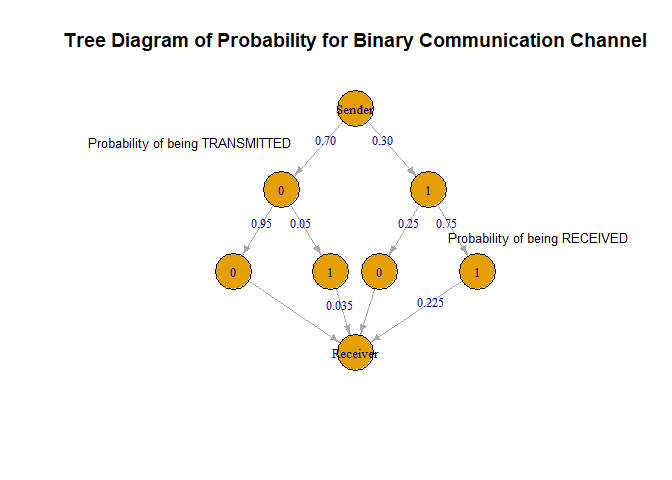
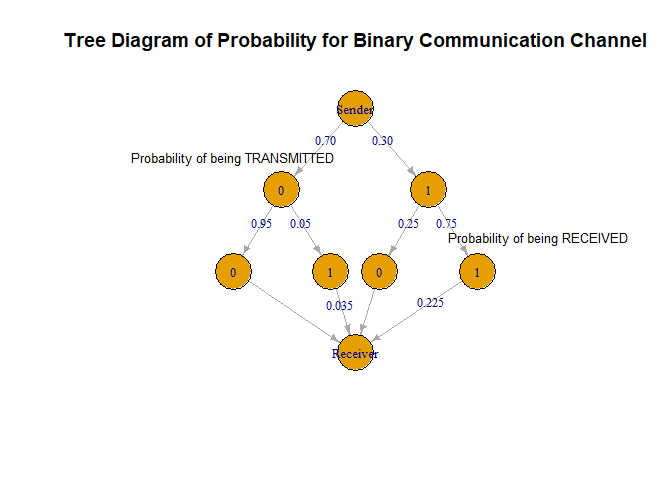
here here

Changed region(s): [[0.125, 0.2812, 0.5, 0.3438]]

diff --git a/FA3-Lansangan/fa3.md b/FA3-Lansangan/fa3.md
@@ -190,7 +190,7 @@ plot(g, layout = layout, edge.label = E(g)$label, edge.label.cex = 0.8, vertex.l
      main = "Tree Diagram of Probability for Binary Communication Channel")
 
 label_coords <- matrix(c(
-  -1.35, 0.6,
+  -1, 0.48,
   1.5, -0.18
 ), ncol = 2, byrow = TRUE)
 
